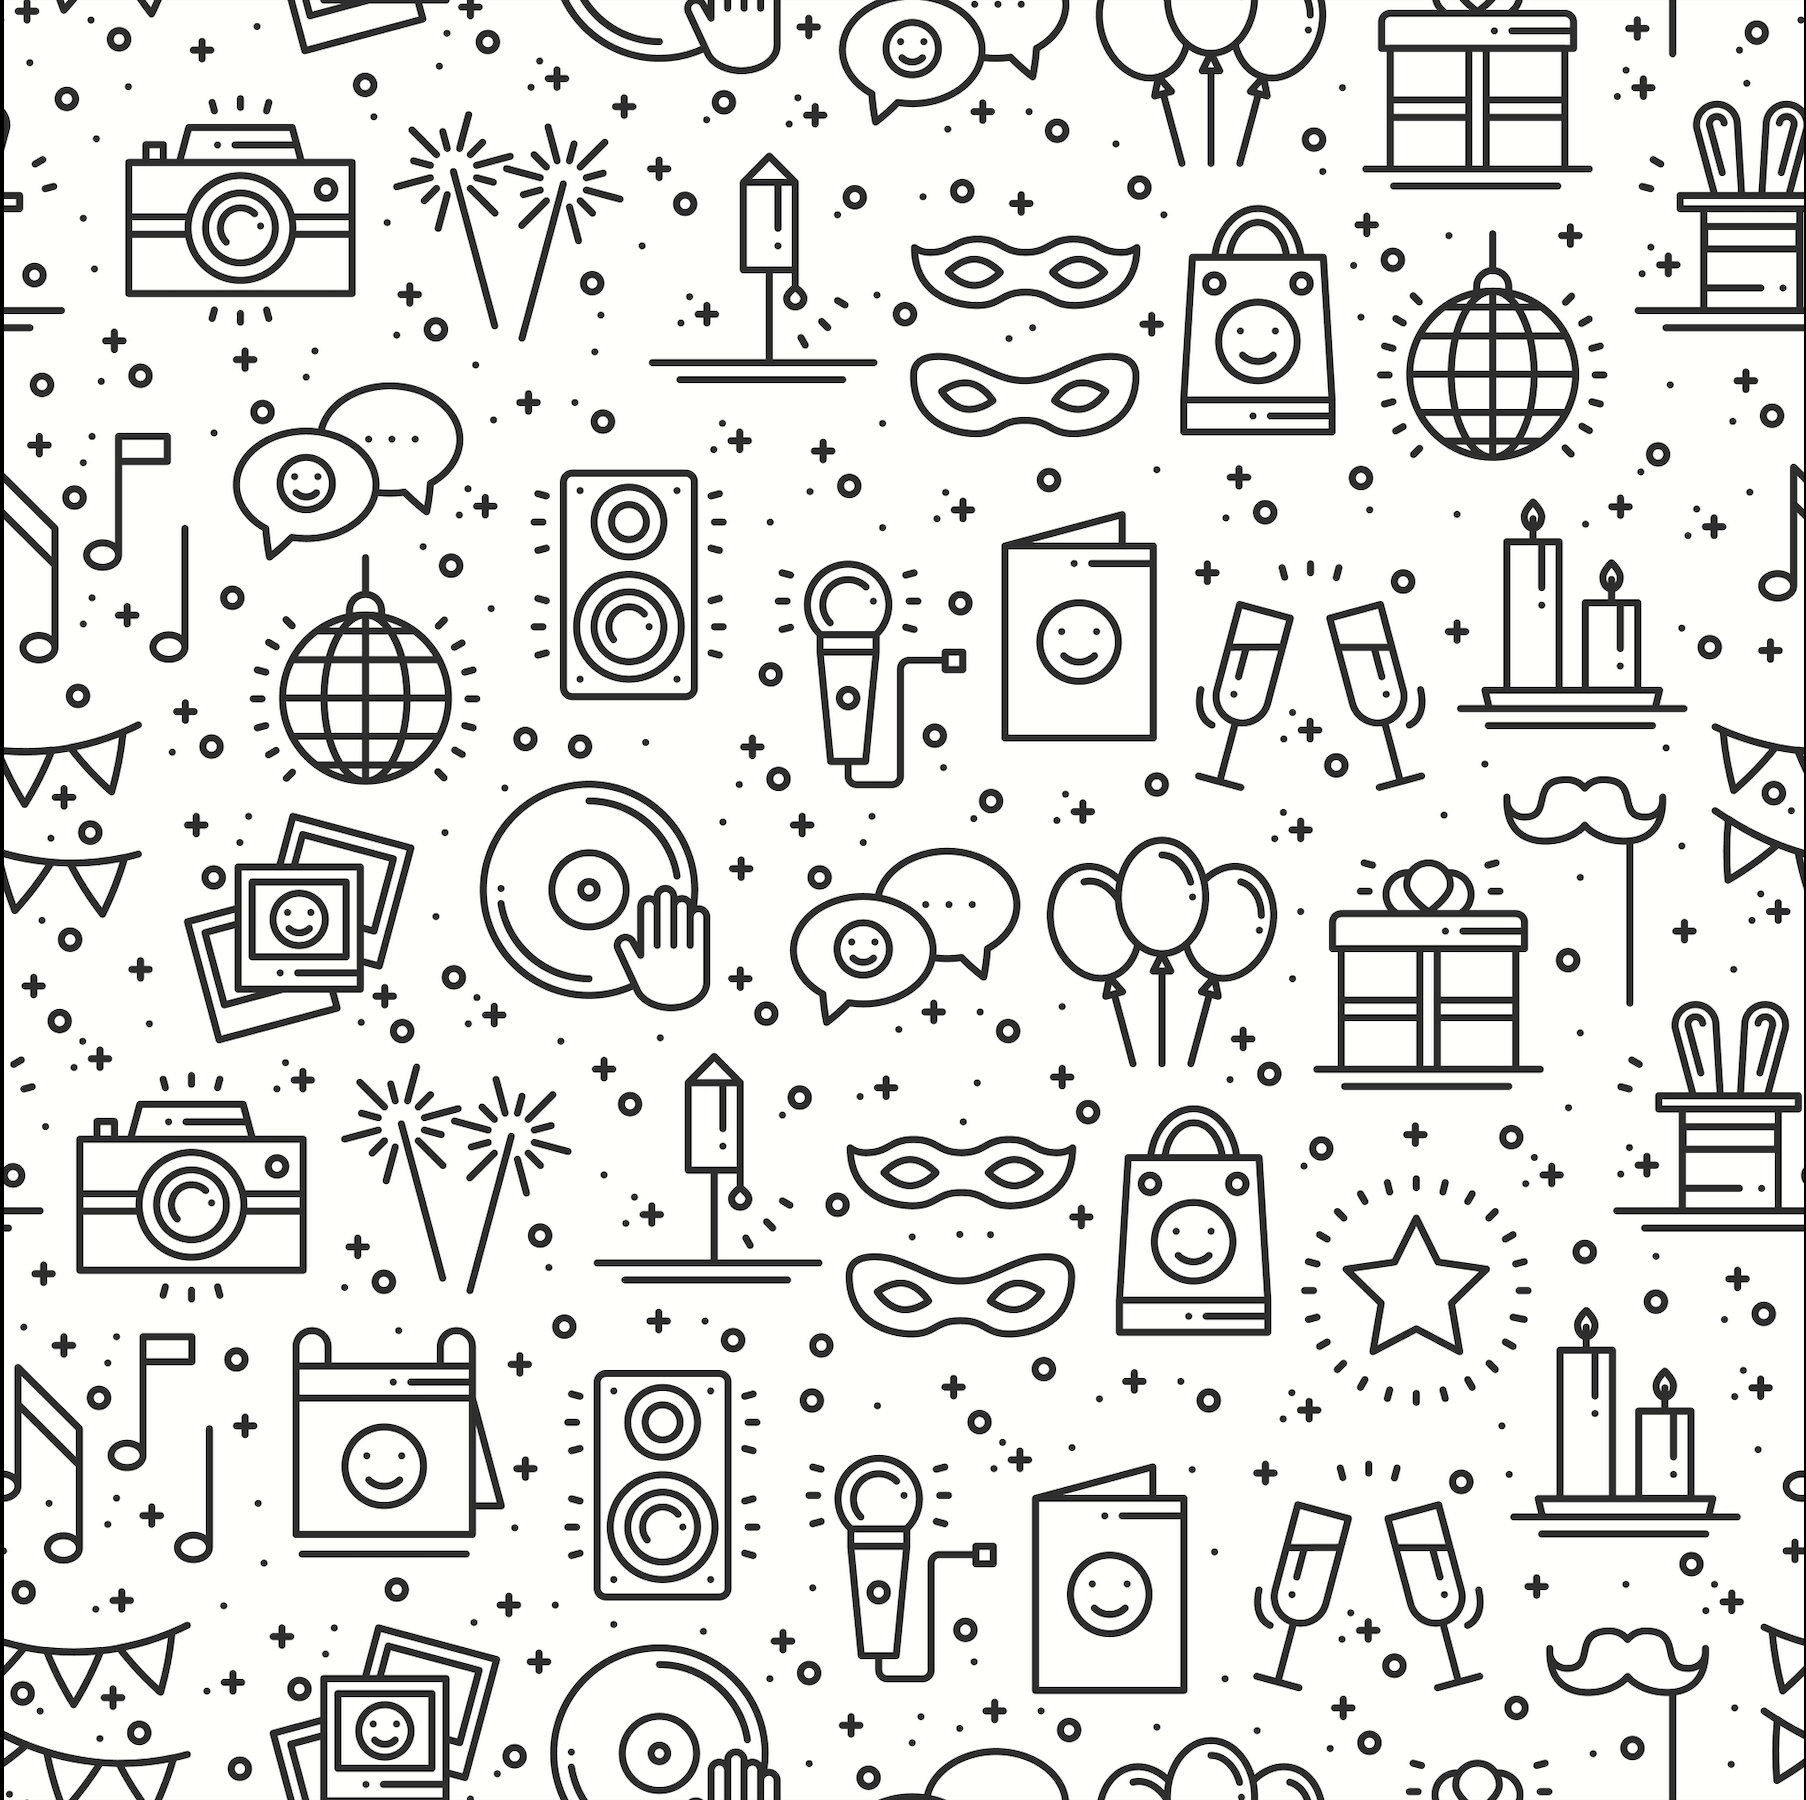
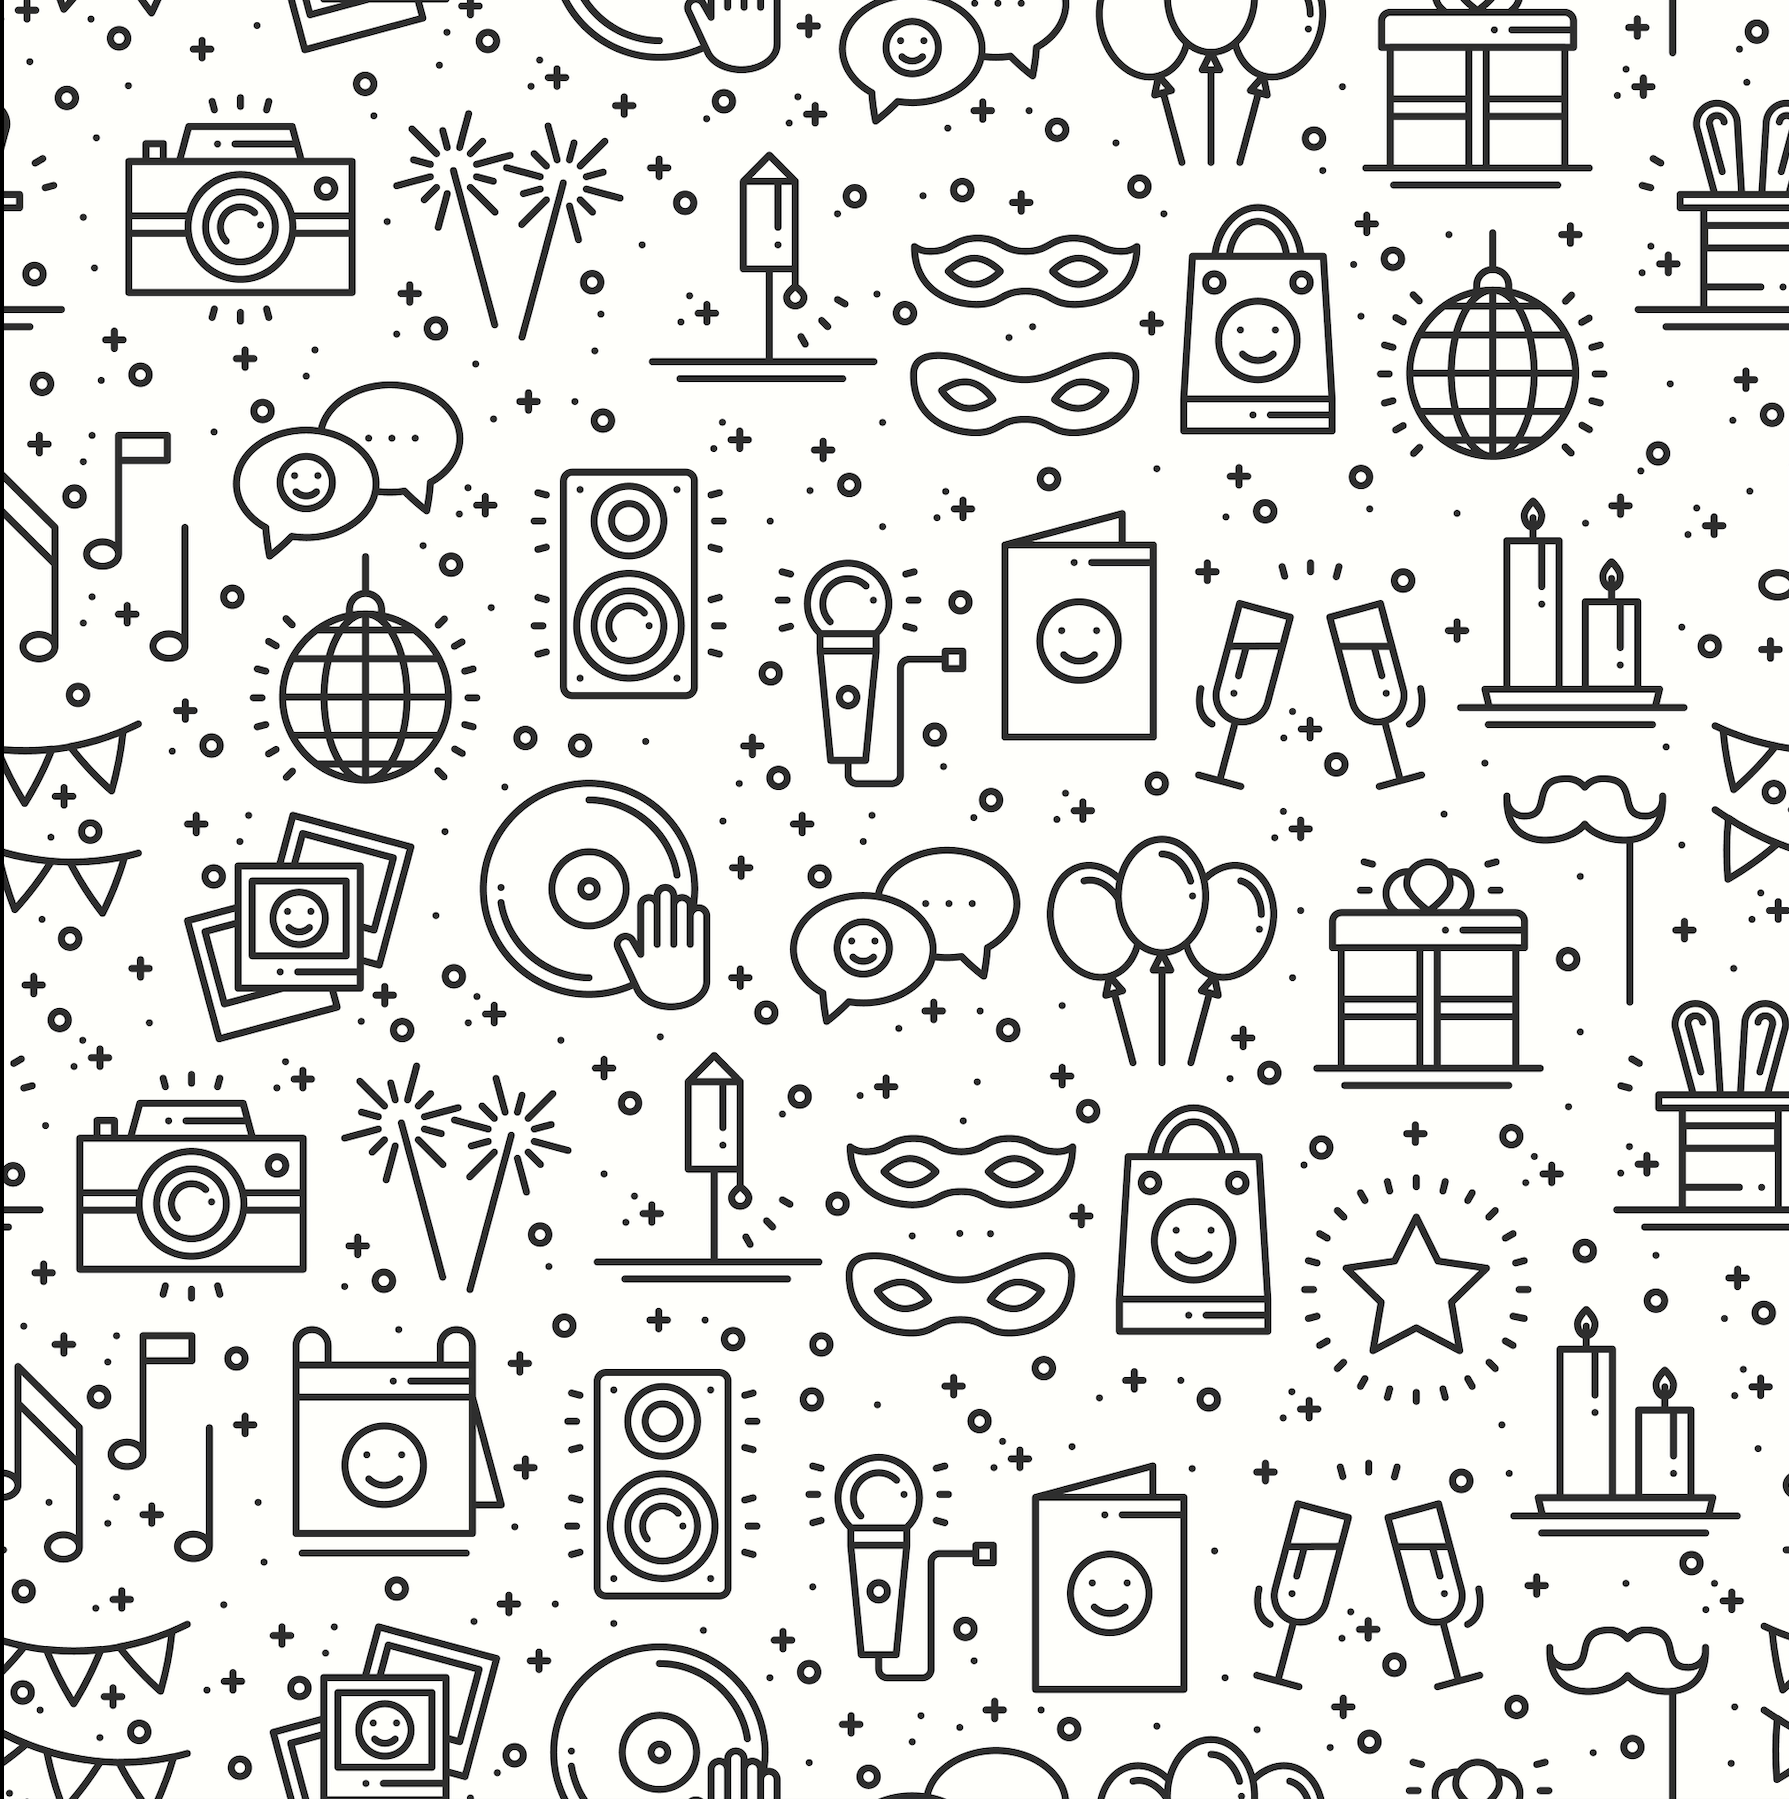
wallpaper revision

diff --git a/templates/homepage.html b/templates/homepage.html
@@ -9,35 +9,42 @@
 
 {% block body %}
   
+<!--Main Navigation-->
 
 
 
-<div class="h-100 d-flex justify-content-center">
+<div class="container">
+  <div class="row">
+<div class="mr-3 text_center">
   <legend><h1>Occasional Occasion Reminder</h1></legend>
+</div>
+</div>
 </div>
 
 
 
   <div class="container">
        <div class="row">
-           <div class="flex-col-3 col-md col-lg-6">
+           <div class="flex-col-3 col-md col-lg-6 bg-white"">
             <image 
             src="https://media.giphy.com/media/H8jyqaUEKlmvAeURSK/giphy.gif" 
-            alt="logo">    
+            alt="logo-gif">    
            </div>
            
          
        <!-- <div class="h-100 d-flex justify-content-center"> -->
-              <legend><h2 class="align-center">Create an Account</h2></legend> 
-          <div class="form-label mb-3">
+        <div class="flex-col-3 col-md col-lg-6 bg-white mb-3 l-3">  
+        <legend><h2 class=>Create an Account</h2></legend> 
+              
+          <div class="form-label mb-">
             <label>Forget no more...We will remember for you... 
               <br> Occasional Occasion Reminder will help you 
-              never miss an important occasion again. 
+              <br>never miss an important occasion again. 
             </label>
           </div>
         </div>
       </div>
-
+    </div>
       <div class="container">
         <div class="row">
             <div class="flex-col-5 col-md col-lg-10">
@@ -46,19 +53,21 @@
                   <label class="form-label mb-3">What is your first name? <input type="text" 
                          name="fname"></label>
                   <label class="form-label mb-3">What is your last name? <input type="text" name="lname"></label>
-                  <label class="form-label mb-3"></label>Email <input type="email" id="email" name="email"
+                  <label class="form-label mb-3">Email <input type="email" id="email" name="email"
                          placeholder="chtheratio@example.com"></label>
                   <label class="form-label mb-3">Phone <input type="tel" id="phone" name="phone"
                          pattern="[0-9]{3}[0-9]{3}[0-9]{4}" required
                          placeholder="Format: 4159351807"></label>                    
                   <label class="form-label mb-3">Password <input type="text" name="password"></label>
-              </div>
-              <div>
+              <!-- </div> -->
+              <!-- <div> -->
                 <button type="submit">Submit</button>
-              </div>
-              </form>         
+              
+              </form> 
+              <legend><h3>Login</h3></legend>  
+            </div>        
               <div>
-                <legend><h3>Login</h3></legend>  
+                
               <form action="/login" method="POST">
                 <label class="form-label mb-3">Email <input type="email" name="email"></label>
                 <label class="form-label mb-3">Password <input type="text" name="password" ></label>

diff --git a/static/styles.css b/static/styles.css
@@ -2,45 +2,66 @@
   margin: 0;
   padding: 0;
   box-sizing: border-box;
-}
+} 
 
 html {
     font-size: 16px;
     font-family: 'Helvetica Neue', Helvetica, Arial;
+}
 style {
   overflow-y: auto;
-}
-    
-    
 } 
-body {
-    max-height: 785;
-    min-width: 1366;
-    background-image: url("https://unsplash.com/photos/vHV9B7JHEx4");
-    background-repeat: no-repeat; 
-    margin-left: 80px;
-    margin-bottom: 80px;
-    margin-right: 80px;
-}
+    
+    
 
-.container {  
+body {
+  background-image: url('/static/images/wallpaper2.png'); 
+  
+  background-size:  101% auto;
+  background-repeat: no-repeat;
+ 
+}
+  /* margin-left: 80px;
+    margin-bottom: 80px;
+    margin-right: 80px; 
+  
+  padding: 0px; 
+   
+} */
+    /* margin-left: 80px;
+    margin-bottom: 80px;
+    margin-right: 80px;  */
+     /* min-width: 101% auto;
+background-repeat: no-repeat;
+/* 
+     max-height: 785 1366
+
+   */
+/* @media (min-width: 992px) {
+      #intro {
+        margin-top: -58.59px;
+      }
+    } */
+
+.container{  
     
     min-width: 15%;
    
     max-height: 15%;
     margin-left: 80px;
-    margin-bottom: 80px;
+    
     margin-right: 80px;
 }       
 
 
 
  .form {
-   min-width: 496px;
-   max-height: 696px;
-   padding: 20px;
+   
+   padding: 10px;
    padding-top: 10px
  }   
+ /* min-width: 496px;
+   max-height: 696px; */
 
 h1 {
   font-family: 'Helvetica Neue', Helvetica, Arial;
@@ -61,7 +82,7 @@ h2, h3, h4, h5, h6 {
   font-optical-sizing: auto;
   text-shadow: 4px 4px 4px #ccc;
   outline-color: rgb(19, 2, 2);
-  padding-top: 10px;
+  padding-top: 30px;
 }
 
 
@@ -90,7 +111,7 @@ div {
     max-height: 35%;
     table-layout: auto;
     border-spacing: 2;
-    margin: 2rem;
+    margin: 8rem;
     
     
    
@@ -156,12 +177,11 @@ tr.header {
 .col-sm-4{
   padding-top: 20px;
 }
-  /* background-image: url('/static/images/wallpaper2.png'); */
-  /* height: 100vh; */
-  /* background-size:  101% auto; */
-  /* background-repeat: no-repeat; */
-  /* padding: 0px; */
-
+  /* background-image: url('/static/images/wallpaper2.png'); 
+  height: 100vh;
+  background-size:  101% auto;
+  background-repeat: no-repeat;
+  padding: 0px;  */
   
 ul {list-style-type: none;
 

diff --git a/templates/greetings.html b/templates/greetings.html
@@ -10,10 +10,13 @@
 {% block body %}
 <div class="container-md"></div>
     <div class="row">
-      <div class="col-12 col-md col-lg-4">
-        <h1 class="text-left">Occasional Occasion Reminder App</h1>
+      <h1 class="text-center">Occasional Occasion Reminder App</h1>
+    </div>
+    
+      
       <div class="container-md"></div>
         <div class="row">
+          <div class="col-3 col-md col-lg-6"></div>
           <legend><h2>Create Your Custom Greeting</h2></legend>
         <div>
           <form action="/occasions/{{contact.contact_id}}" method="POST">
@@ -66,7 +69,16 @@
         <button id= "send">Send All Greetings</button>
     </div>
   <div class="col-12 col-md col-lg-4">
-  <legend><h3>Worry no more...We will remember for you bye!</h3></legend>
+  <legend><h3>
+              
+              We will keep track of all your occasions, special dates, 
+              and loved ones info! Customized will be 
+              sent on date with a special Gif chosen for you 
+          
+              Your greetings have been logged and will be 
+              sent on date with a special Gif chosen for you 
+          
+              Good bye!</h3></legend>
       <div>
         <form action="/logout" method="POST"> 
         <button type="submit">LOGOUT</button>

diff --git a/templates/contacts.html b/templates/contacts.html
@@ -12,9 +12,8 @@
   <div class="container-md"></div>
     <div class="row">
       <div class="flex-col-6 col-md col-lg-12">
-        <legend><h2><i class="fa fa-align-justify-left" aria-hidden="true">
-                       </i>ADD A NEW CONTACT</h2>
-        </legend>
+        <legend><h2 class= "row text-align">ADD A NEW CONTACT</h2>
+      </legend>
       </div>
       <div class="row">
       <div class="flex-col-6 col-md col-lg-12">
